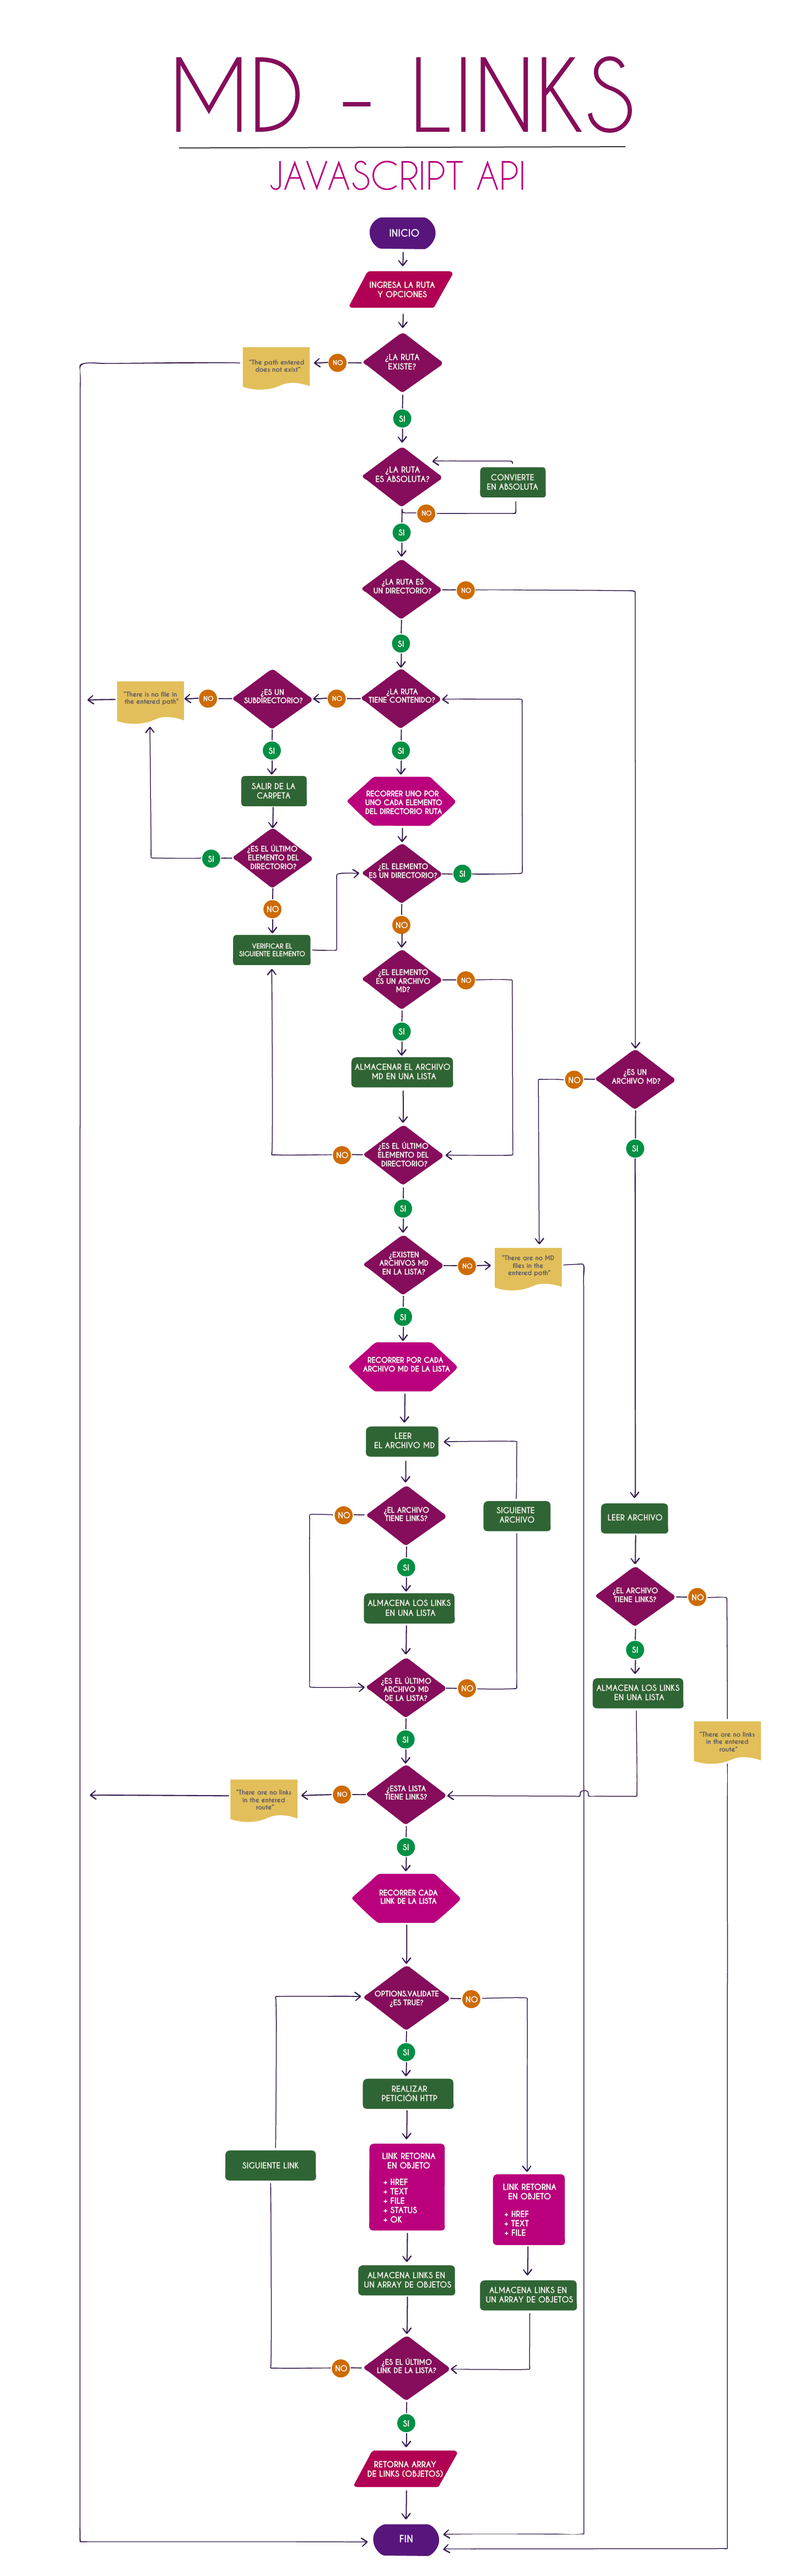
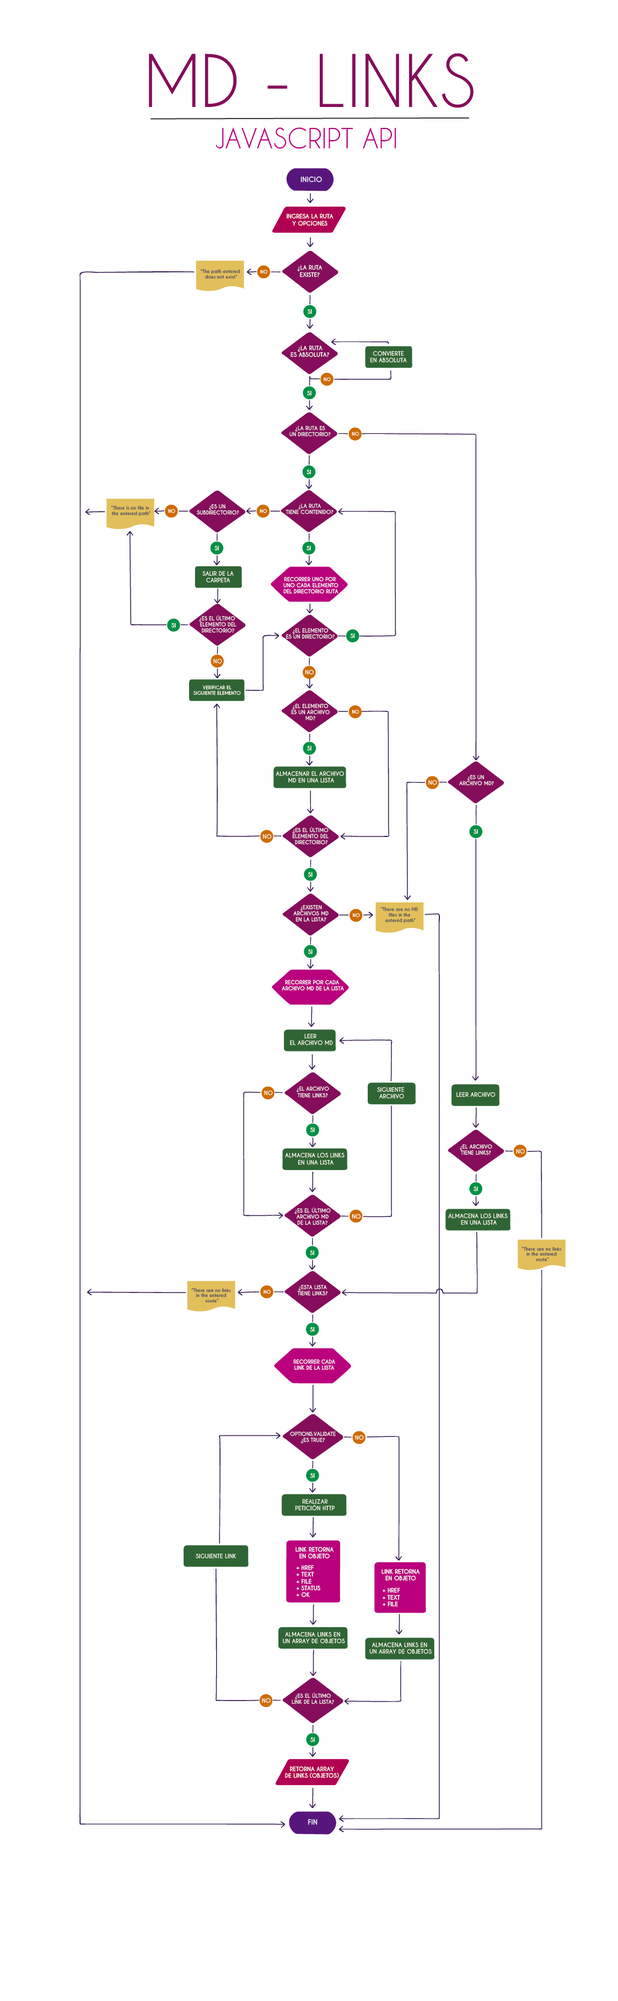
Add images flowchart

diff --git a/README.md b/README.md
@@ -68,13 +68,12 @@ Se mostrarán el texto, la URL, la ruta del archivo (dónde el link fue encontra
 
 ### API JavaScript 1
 
-![API](https://github.com/elianamendez1/LIM017-md-links/blob/7b95496abc43c546f6a8fbc3621e7ec17a87ea09/images/flowchart/flowchartJavascriptAPI.png)
+![API](https://github.com/elianamendez1/LIM017-md-links/blob/827423f01551289441fdda30436f5e1a9fd55043/images/flowchart/flowchartJavascriptAPI.png)
 
-![API](https://github.com/elianamendez1/LIM017-md-links/blob/HU1/images/flowchart/Flujograma%20Proyecto%20MD%20Links-02.png)
 
 ### CLI (Command Line Interface) 2
 
-![CLI](fotodelnocomando.jpg)
+![CLI](https://github.com/elianamendez1/LIM017-md-links/blob/827423f01551289441fdda30436f5e1a9fd55043/images/flowchart/flowchartCLI.png)
 
 ## 4. Liberías empleadas 📚
 
